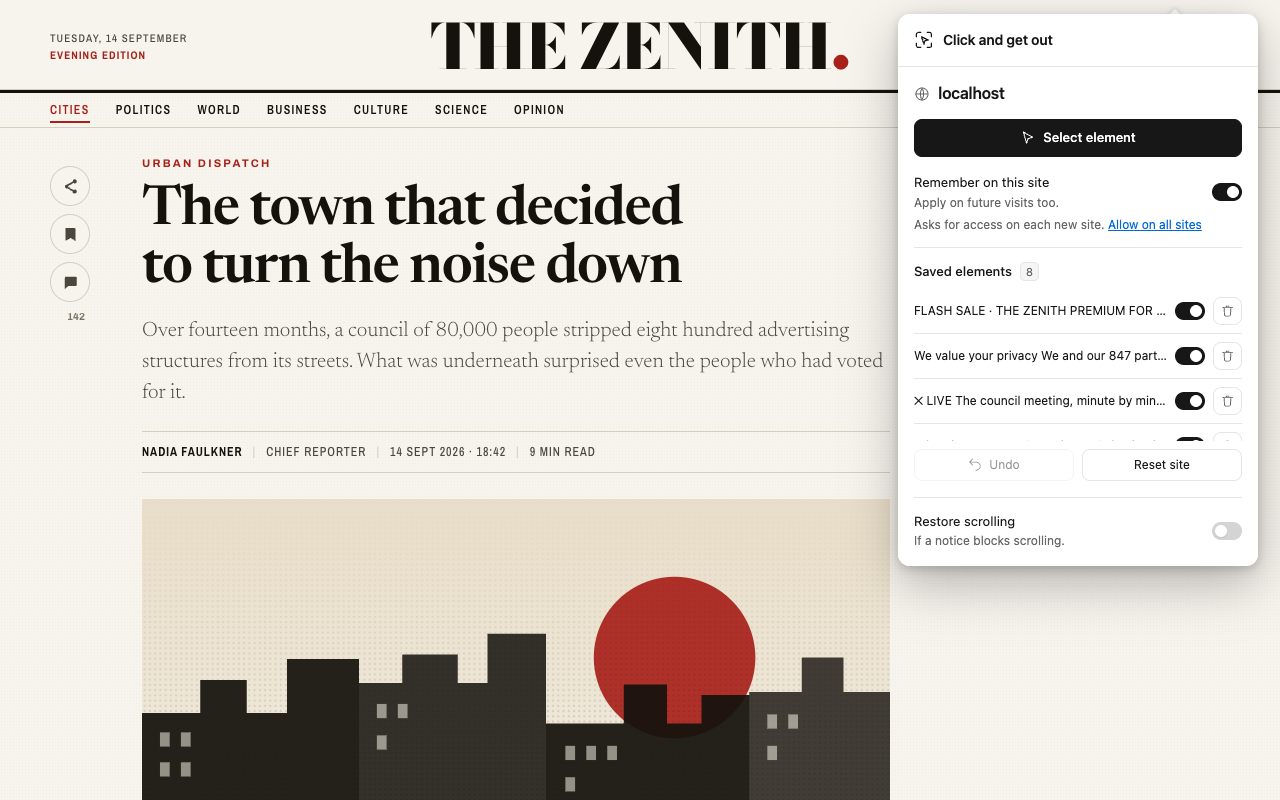
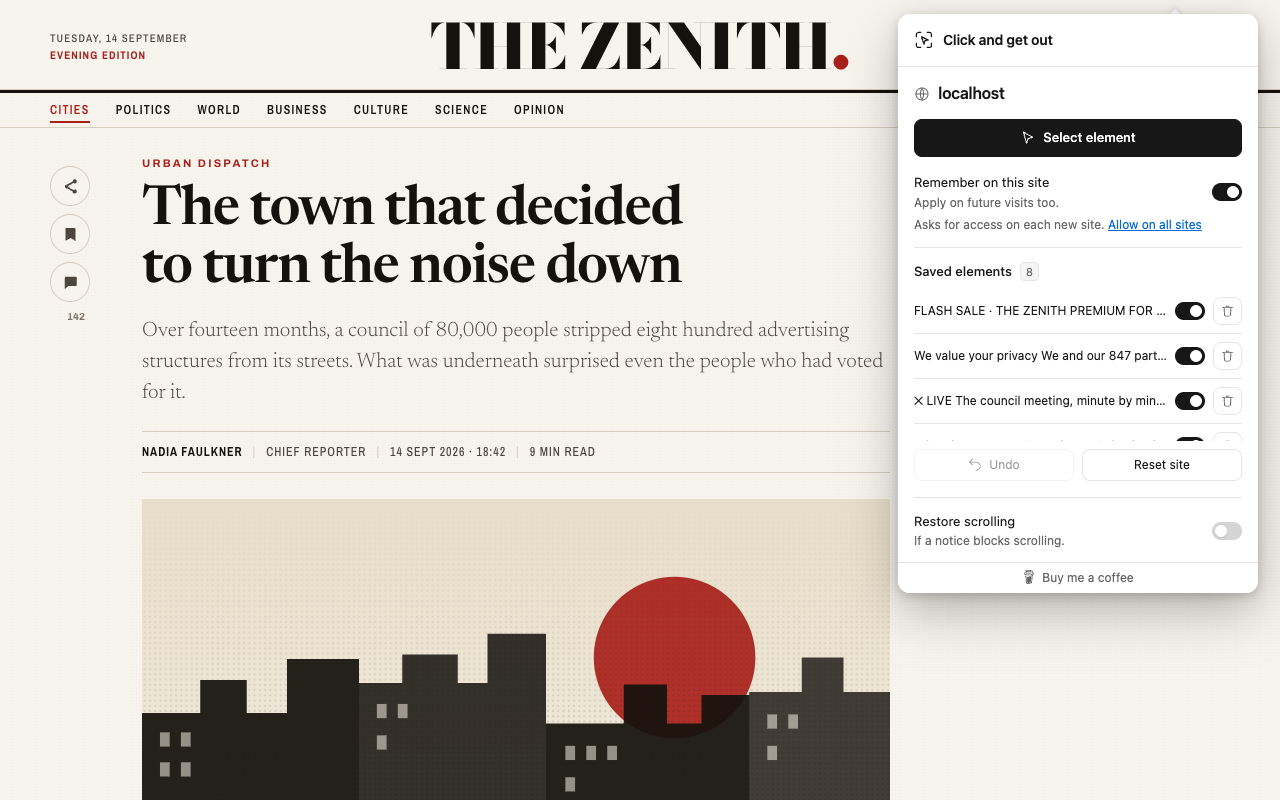
Enlace «Buy me a coffee» al pie del menú
Una sola línea fija al final del popup, con el logo de Buy Me a Coffee
incrustado como SVG: es un enlace corriente, no se carga nada de ese
sitio y solo se abre, en pestaña nueva, si se pulsa. Se oculta cuando el
menú muestra un error, que necesita el hueco más que el enlace.

El test estático vigila ahora que popup.html solo apunte a esa página y
no cargue nada de fuera del paquete, para que «cero peticiones de red»
siga siendo cierto. La política de privacidad explica el enlace. Capturas
del menú y GIF regenerados.

Changed region(s): [[0.6875, 0.6875, 1.0, 0.7812]]

diff --git a/popup.html b/popup.html
@@ -21,6 +21,7 @@
     <label class="setting scroll"><span><span data-i18n="unlockLabel"></span><small data-i18n="unlockHelp"></small></span><input id="unlock" type="checkbox" role="switch" disabled></label>
     <p id="status" role="status" aria-live="polite"></p>
   </main>
+  <footer><a id="support" href="https://www.buymeacoffee.com/the.gatsbys" target="_blank" rel="noopener noreferrer"><svg viewBox="0 0 24 24" aria-hidden="true"><path d="M20.216 6.415l-.132-.666c-.119-.598-.388-1.163-1.001-1.379-.197-.069-.42-.098-.57-.241-.152-.143-.196-.366-.231-.572-.065-.378-.125-.756-.192-1.133-.057-.325-.102-.69-.25-.987-.195-.4-.597-.634-.996-.788a5.723 5.723 0 00-.626-.194c-1-.263-2.05-.36-3.077-.416a25.834 25.834 0 00-3.7.062c-.915.083-1.88.184-2.75.5-.318.116-.646.256-.888.501-.297.302-.393.77-.177 1.146.154.267.415.456.692.58.36.162.737.284 1.123.366 1.075.238 2.189.331 3.287.37 1.218.05 2.437.01 3.65-.118.299-.033.598-.073.896-.119.352-.054.578-.513.474-.834-.124-.383-.457-.531-.834-.473-.466.074-.96.108-1.382.146-1.177.08-2.358.082-3.536.006a22.228 22.228 0 01-1.157-.107c-.086-.01-.18-.025-.258-.036-.243-.036-.484-.08-.724-.13-.111-.027-.111-.185 0-.212h.005c.277-.06.557-.108.838-.147h.002c.131-.009.263-.032.394-.048a25.076 25.076 0 013.426-.12c.674.019 1.347.067 2.017.144l.228.031c.267.04.533.088.798.145.392.085.895.113 1.07.542.055.137.08.288.111.431l.319 1.484a.237.237 0 01-.199.284h-.003c-.037.006-.075.01-.112.015a36.704 36.704 0 01-4.743.295 37.059 37.059 0 01-4.699-.304c-.14-.017-.293-.042-.417-.06-.326-.048-.649-.108-.973-.161-.393-.065-.768-.032-1.123.161-.29.16-.527.404-.675.701-.154.316-.199.66-.267 1-.069.34-.176.707-.135 1.056.087.753.613 1.365 1.37 1.502a39.69 39.69 0 0011.343.376.483.483 0 01.535.53l-.071.697-1.018 9.907c-.041.41-.047.832-.125 1.237-.122.637-.553 1.028-1.182 1.171-.577.131-1.165.2-1.756.205-.656.004-1.31-.025-1.966-.022-.699.004-1.556-.06-2.095-.58-.475-.458-.54-1.174-.605-1.793l-.731-7.013-.322-3.094c-.037-.351-.286-.695-.678-.678-.336.015-.718.3-.678.679l.228 2.185.949 9.112c.147 1.344 1.174 2.068 2.446 2.272.742.12 1.503.144 2.257.156.966.016 1.942.053 2.892-.122 1.408-.258 2.465-1.198 2.616-2.657.34-3.332.683-6.663 1.024-9.995l.215-2.087a.484.484 0 01.39-.426c.402-.078.787-.212 1.074-.518.455-.488.546-1.124.385-1.766zm-1.478.772c-.145.137-.363.201-.578.233-2.416.359-4.866.54-7.308.46-1.748-.06-3.477-.254-5.207-.498-.17-.024-.353-.055-.47-.18-.22-.236-.111-.71-.054-.995.052-.26.152-.609.463-.646.484-.057 1.046.148 1.526.22.577.088 1.156.159 1.737.212 2.48.226 5.002.19 7.472-.14.45-.06.899-.13 1.345-.21.399-.072.84-.206 1.08.206.166.281.188.657.162.974a.544.544 0 01-.169.364zm-6.159 3.9c-.862.37-1.84.788-3.109.788a5.884 5.884 0 01-1.569-.217l.877 9.004c.065.78.717 1.38 1.5 1.38 0 0 1.243.065 1.658.065.447 0 1.786-.065 1.786-.065.783 0 1.434-.6 1.499-1.38l.94-9.95a3.996 3.996 0 00-1.322-.238c-.826 0-1.491.284-2.26.613z"/></svg><span data-i18n="support"></span></a></footer>
   <template id="rule-template">
     <li>
       <span class="label"></span>

diff --git a/popup.css b/popup.css
@@ -38,7 +38,7 @@ header { flex-shrink: 0; display: flex; align-items: center; gap: 9px; padding: 
 svg { display: block; width: 16px; height: 16px; flex: 0 0 auto; fill: none; stroke: currentColor; stroke-width: 1.5; stroke-linecap: round; stroke-linejoin: round; }
 .app-icon { width: 20px; height: 20px; }
 .wordmark { font-size: 14px; font-weight: 600; letter-spacing: -.25px; }
-main { min-height: 0; overflow-y: auto; padding: 16px; }
+main { min-height: 0; overflow-y: auto; padding: 16px 16px 12px; }
 .site-line { display: flex; align-items: center; gap: 8px; margin-bottom: 14px; }
 .site-line svg { color: var(--muted); }
 h1 { font-size: 16px; line-height: 1.35; font-weight: 600; letter-spacing: -.3px; overflow-wrap: anywhere; margin: 0; min-width: 0; }
@@ -46,7 +46,7 @@ button { font: inherit; color: var(--text); cursor: pointer; display: inline-fle
 button:hover:not(:disabled) { background: var(--subtle); border-color: var(--switch-off); }
 button:active:not(:disabled) { background: var(--hover); }
 button:disabled { opacity: .45; cursor: default; }
-button:focus-visible, input:focus-visible { outline: 2px solid var(--accent); outline-offset: 3px; }
+button:focus-visible, input:focus-visible, a:focus-visible { outline: 2px solid var(--accent); outline-offset: 3px; }
 .primary { width: 100%; min-height: 38px; background: var(--primary); color: var(--on-primary); border-color: var(--primary); font-weight: 500; }
 .primary:hover:not(:disabled) { background: var(--primary); border-color: var(--primary); opacity: .88; }
 .setting { display: flex; align-items: center; justify-content: space-between; gap: 14px; cursor: pointer; }
@@ -84,6 +84,13 @@ li button { flex-shrink: 0; min-height: 28px; padding: 3px 8px; font-size: 12px;
 .link:hover:not(:disabled), .link:active:not(:disabled) { background: none; border: 0; opacity: .8; }
 #status { color: var(--error); background: var(--error-bg); border-radius: 8px; font-size: 12px; margin: 14px 0 0; padding: 10px; overflow-wrap: anywhere; }
 #status:empty { display: none; }
+footer { flex-shrink: 0; display: flex; justify-content: center; padding: 6px 16px; border-top: 1px solid var(--border); }
+/* An error needs the room more than the link does. */
+.has-error footer { display: none; }
+#support { display: inline-flex; align-items: center; gap: 6px; border-radius: 3px; color: var(--muted); font-size: 12px; text-decoration: none; }
+#support:hover { color: var(--text); text-decoration: underline; }
+/* Buy Me a Coffee's own mark is a filled shape, unlike the stroked icons above. */
+#support svg { width: 14px; height: 14px; fill: currentColor; stroke: none; }
 @media (prefers-reduced-motion: reduce) { *, *::before { transition: none !important; } }
 @media (forced-colors: active) {
   input[role='switch'] { appearance: auto; }

diff --git a/popup.js b/popup.js
@@ -3,6 +3,8 @@ const t = (key, ...values) => chrome.i18n.getMessage(key, values.map(String));
 // Los textos fijos de popup.html llevan su clave de _locales en data-i18n.
 document.documentElement.lang = t('langCode');
 for (const el of document.querySelectorAll('[data-i18n]')) el.textContent = t(el.dataset.i18n);
+// Un enlace corriente: la extensión no carga nada de ese sitio; solo se abre si se pulsa.
+$('support').title = t('supportTitle');
 let tab;
 let origin;
 let site = { rules: [], unlockScroll: false };

diff --git a/README.md b/README.md
@@ -222,7 +222,7 @@ One entry per origin, capped at 200 rules per site:
 
 ## 🔒 Privacy and permissions
 
-**There are no network requests. None.** No analytics, no accounts, no telemetry, no remote code. What you save never leaves your Chrome profile and is not synced to any account.
+**There are no network requests. None.** No analytics, no accounts, no telemetry, no remote code. What you save never leaves your Chrome profile and is not synced to any account. The *Buy me a coffee* link at the foot of the menu is a plain link: nothing is loaded from it, and it only opens, in a new tab, if you click it.
 
 | Permission | What for |
 |---|---|
@@ -342,7 +342,7 @@ Issues and pull requests are welcome.
 
 ## ☕ Support the project
 
-If it has saved you some aggravation, you can buy me a coffee:
+If it has saved you some aggravation, you can buy me a coffee. The same link sits, small, at the foot of the extension's menu; it is optional and unlocks nothing.
 
 <a href="https://www.buymeacoffee.com/the.gatsbys" target="_blank"><img src="https://cdn.buymeacoffee.com/buttons/v2/default-yellow.png" alt="Buy me a coffee" height="48"></a>
 

diff --git a/store/PRIVACY.md b/store/PRIVACY.md
@@ -1,6 +1,6 @@
 # Política de privacidad — Click and get out
 
-**Última actualización:** 15 de septiembre de 2026
+**Última actualización:** 17 de septiembre de 2026
 
 Versión en inglés: [`PRIVACY.en.md`](PRIVACY.en.md).
 
@@ -60,6 +60,15 @@ Chrome (`chrome.storage.local`), en tu propio dispositivo. Estos datos:
   **Detalles** → **Acceso al sitio**. Al retirarlo, la extensión deja de
   registrar su script en ese sitio.
 - **Desinstalar la extensión** elimina todo su almacenamiento local.
+
+## El enlace «Invítame a un café»
+
+Al pie del menú hay un enlace a la página del autor en buymeacoffee.com. Es un
+enlace corriente: la extensión no carga nada de ese sitio ni le envía nada, de
+modo que el resumen de arriba sigue siendo exacto. Solo si lo pulsas tu navegador
+abre esa página en una pestaña nueva, como haría con cualquier otro enlace, y a
+partir de ahí se aplica la política de privacidad de ese sitio. Donar es
+voluntario y no desbloquea nada.
 
 ## Código remoto
 

diff --git a/store/PRIVACY.en.md b/store/PRIVACY.en.md
@@ -1,6 +1,6 @@
 # Privacy policy — Click and get out
 
-**Last updated:** 15 September 2026
+**Last updated:** 17 September 2026
 
 Spanish version: [`PRIVACY.md`](PRIVACY.md).
 
@@ -58,6 +58,14 @@ Only in the extension's local storage inside your Chrome profile
   → **Site access**. Once withdrawn, the extension stops registering its script
   on that site.
 - **Uninstalling the extension** removes all of its local storage.
+
+## The "Buy me a coffee" link
+
+The foot of the menu carries a link to the author's page on buymeacoffee.com. It
+is a plain link: the extension loads nothing from that site and sends it nothing,
+so the summary above still holds. Only if you click it does your browser open
+that page in a new tab, as it would with any other link, and from then on that
+site's own privacy policy applies. Donating is voluntary and unlocks nothing.
 
 ## Remote code
 
